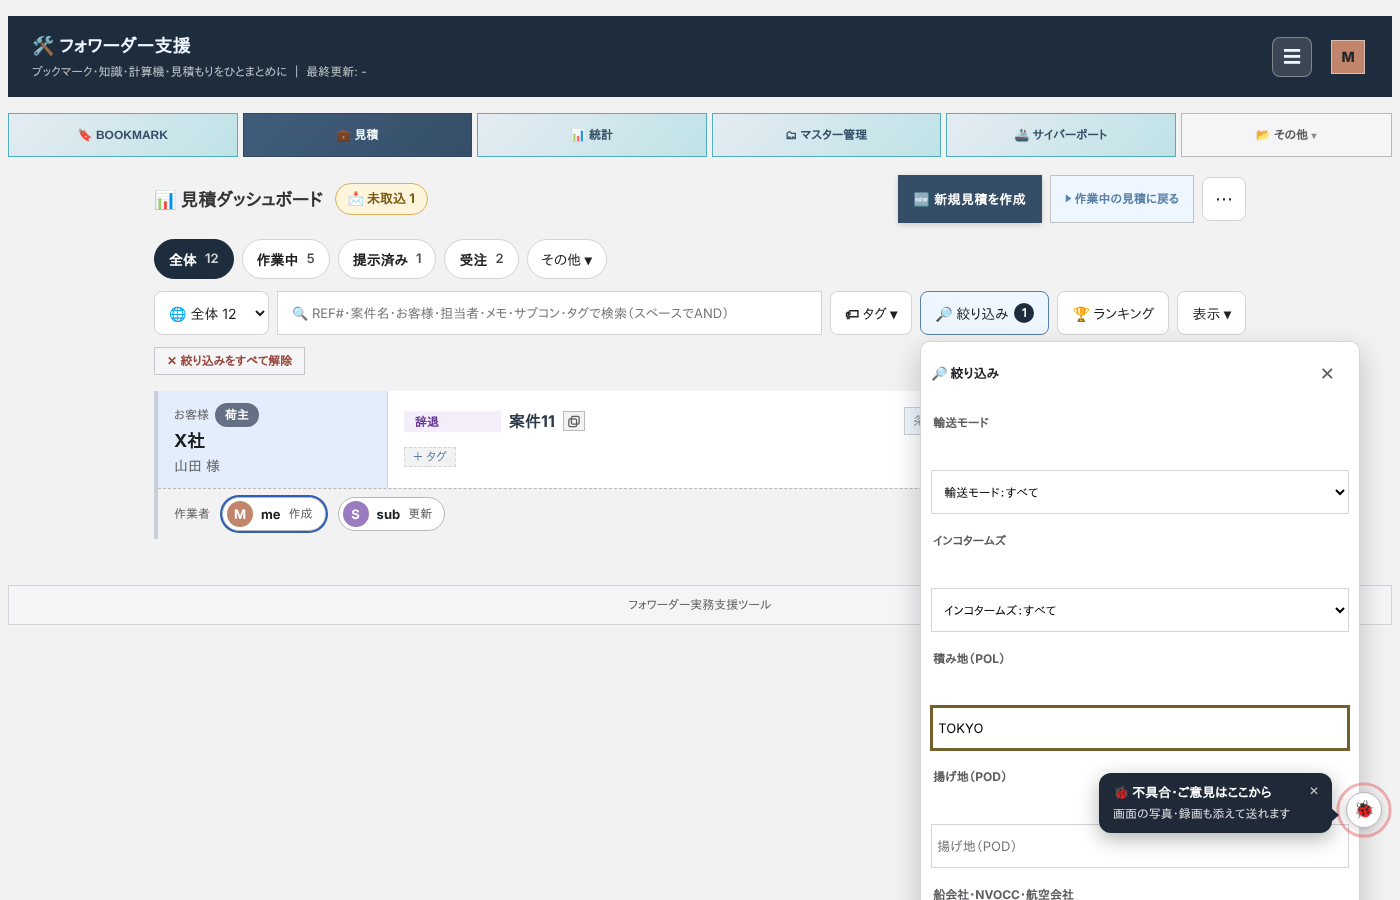
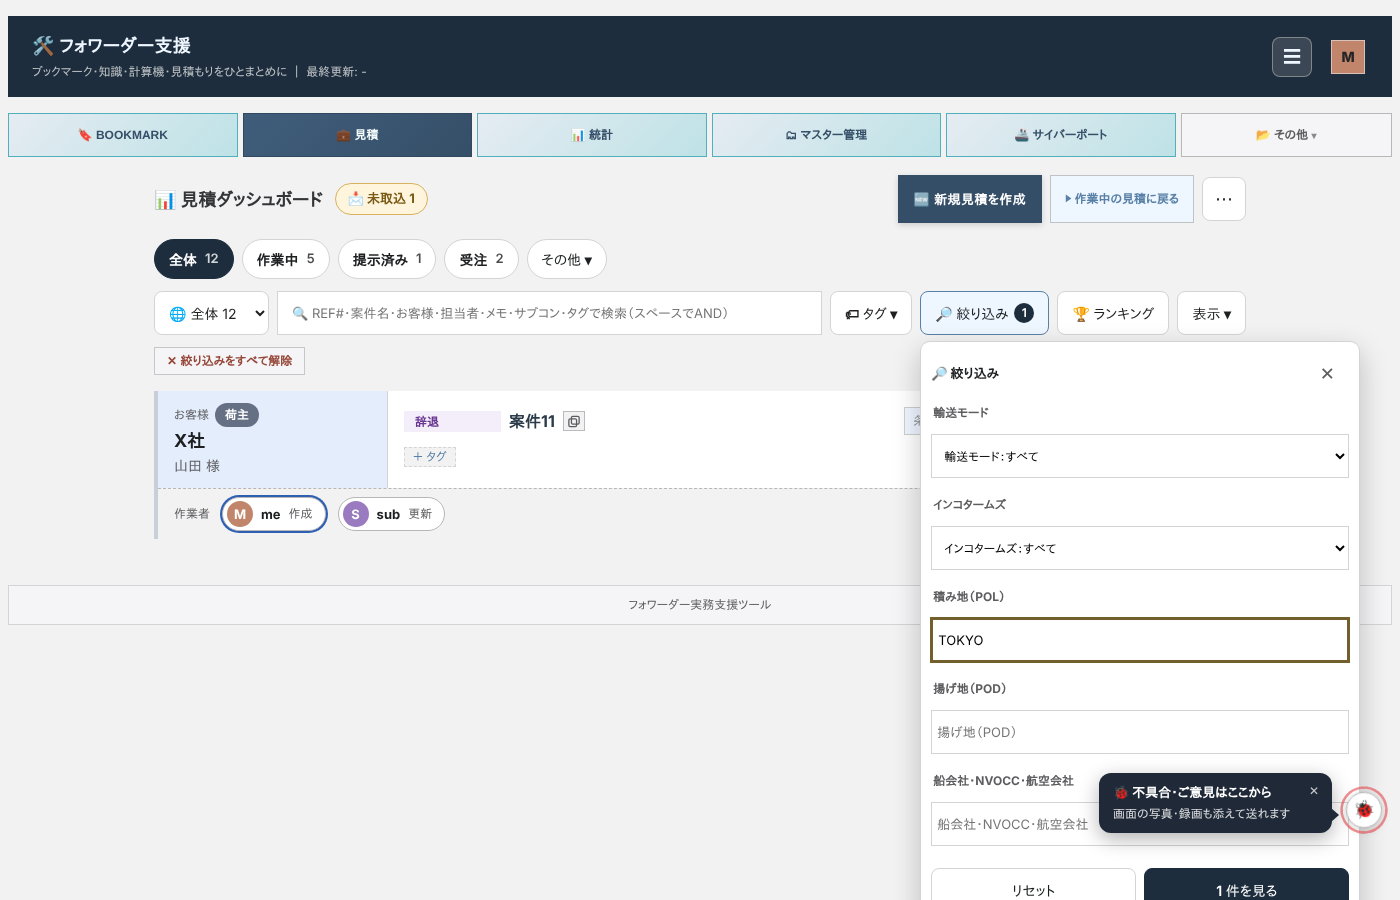
絞り込みパネルのラベルと入力欄の隙間を詰める
Claude-Session: https://claude.ai/code/session_01XeTzHTcZsfGbXPjaCKrmp5

diff --git a/フォワーダー支援/css/dash-top.css b/フォワーダー支援/css/dash-top.css
@@ -148,3 +148,7 @@
   #qpDashboard.dt-on .dt-rank-in { display: flex; width: 100%; justify-content: center; margin: 6px 0; }
   #qpDashboard.dt-on .dt-scope-seg { width: 100%; } #qpDashboard.dt-on .dt-scope-seg button { flex: 1; }
 }
+
+/* 絞り込みパネル：ラベルは 44px の対象から外す（ラベルと入力欄の隙間を詰める）。入力欄側の「〜：すべて」はそのまま */
+#qpDashboard.dt-on .dt-pop .qpd-adv > .dt-flbl { min-height: 0; width: auto; margin: 10px 2px 4px; }
+#qpDashboard.dt-on .dt-pop .qpd-adv > .dt-flbl:first-child { margin-top: 0; }
